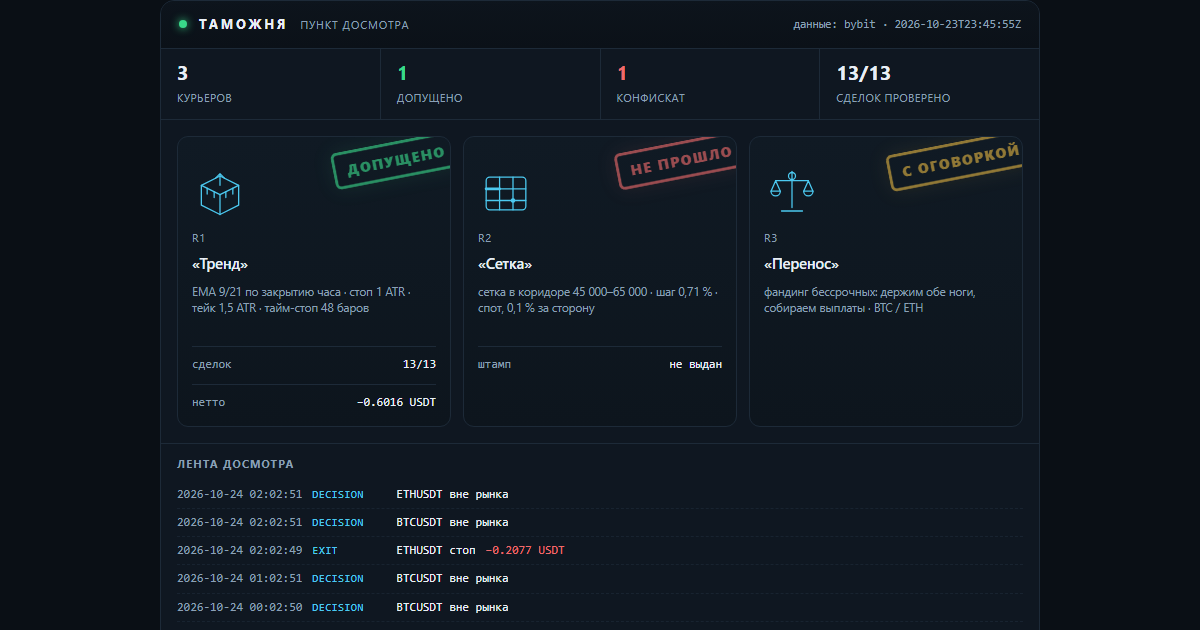
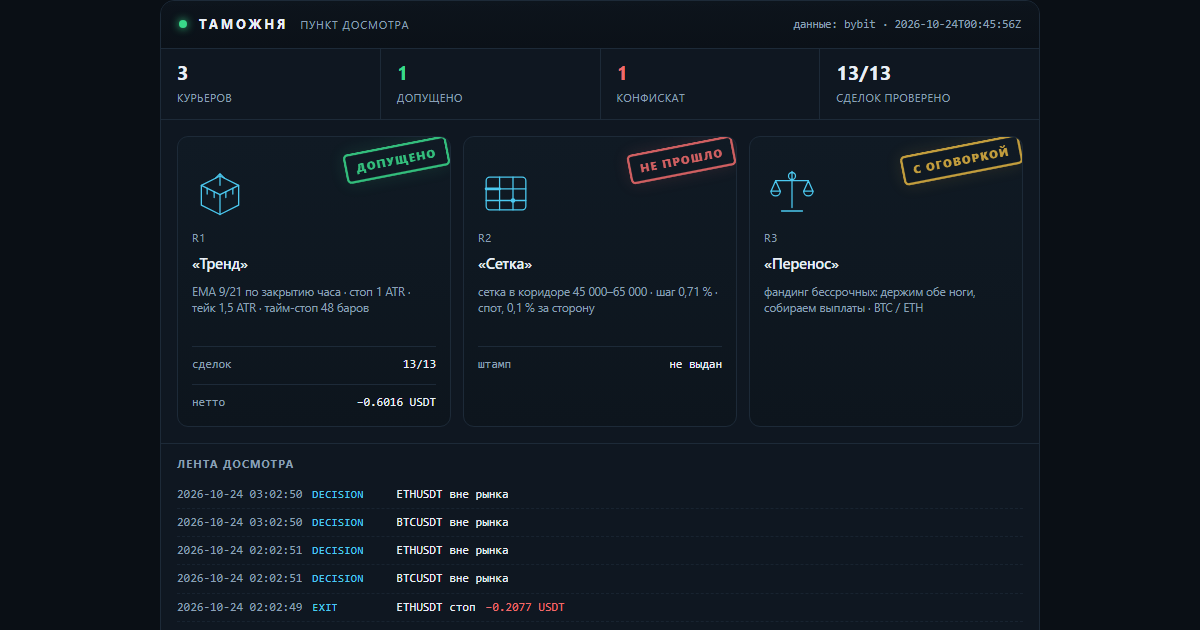
lab: таможня — свежие числа досмотра

diff --git a/docs/customs.html b/docs/customs.html
@@ -16,7 +16,7 @@
   <h1><a href="index.html">Gramwright Lab</a></h1>
   <p>Журнал проверки торговых гипотез: что проверяли, что вышло по факту, сколько съели издержки. Числа берутся из журнала стенда. Не инвестиционная рекомендация.</p>
 </header>
-<h1>Таможня</h1><p class="intro">Пункт досмотра заявленных результатов. Стратегии приезжают с грузом обещаний, и каждая проходит проверку по публичным данным биржи: цены существуют, комиссии по тарифу, нетто сходится. Что прошло — получает штамп. Что не прошло — в конфискат, с причиной. Штамп означает «записи подлинные», а не «стратегия прибыльна».</p><p><img src="img/customs.png" alt="Терминал досмотра: три курьера, штампы, лента событий" style="width:100%;height:auto;border:1px solid var(--line);border-radius:10px"></p><p class="c-note">Сверху — тот же терминал, что собирается из журналов: счётчики, эмблемы курьеров, штампы и лента последних событий. Ниже — то же самое текстом, чтобы читалось с телефона и индексировалось поиском.</p><article><h2>R1 «Тренд» <span class="verdict">— <span class="c-ok">допущено</span></span></h2><p><strong>Правило:</strong> EMA 9/21 по закрытию часа · стоп 1 ATR · тейк 1,5 ATR · тайм-стоп 48 баров</p><p><strong>Декларация:</strong> Заявлено до прогона: держать 30 сделок, лимит нотионала 10 % от счёта, стоп дня −1 %. Прибыль не заявлялась — это важно: курьер не обещал доход.</p><p><strong>Проверено по публичным свечам, без ключей:</strong> 13 из 13 сделок. Сумма нетто −0.6016 USDT.</p><ul class="c-chk"><li class="y">BTCUSDT: нетто −0.8746 USDT · комиссии 0.0901 · проверено · с поправкой</li><li class="y">BTCUSDT: нетто −0.5441 USDT · комиссии 0.0896 · проверено</li><li class="y">ETHUSDT: нетто −0.2253 USDT · комиссии 0.0266 · проверено</li><li class="y">ETHUSDT: нетто −0.1513 USDT · комиссии 0.0265 · проверено</li><li class="y">ETHUSDT: нетто +0.1984 USDT · комиссии 0.0262 · проверено</li><li class="y">ETHUSDT: нетто +0.1617 USDT · комиссии 0.0260 · проверено</li><li class="y">ETHUSDT: нетто +0.2645 USDT · комиссии 0.0263 · проверено</li><li class="y">BTCUSDT: нетто +0.6246 USDT · комиссии 0.0897 · проверено</li><li class="y">BTCUSDT: нетто −0.5881 USDT · комиссии 0.0910 · проверено</li><li class="y">ETHUSDT: нетто −0.2403 USDT · комиссии 0.0270 · проверено</li><li class="y">BTCUSDT: нетто +0.6908 USDT · комиссии 0.0908 · проверено</li><li class="y">ETHUSDT: нетто +0.2898 USDT · комиссии 0.0267 · проверено</li><li class="y">ETHUSDT: нетто −0.2077 USDT · комиссии 0.0263 · проверено</li></ul><p class="tags">журнал sha256 22f508ebebd718b0… · проверяльщик verify-1</p><p class="c-note">Штамп означает: записи подлинные, а не что стратегия прибыльна. Курьер в минусе, и минус тоже стоит на штампе — иначе это была бы не проверка, а реклама.</p><p class="tags">источник: verify-report.json</p></article><article><h2>R2 «Сетка» <span class="verdict">— <span class="c-bad">не прошло</span></span></h2><p><strong>Правило:</strong> сетка в коридоре 45 000–65 000 · шаг 0,71 % · спот, 0,1 % за сторону</p><p><strong>Декларация:</strong> Заявлено: «44 % урожая уходит бирже в виде комиссий». Кроме того — перевес над простым владением монетой.</p><p><strong>Что сошлось:</strong></p><ul class="c-chk"><li class="y">сами числа пересчитаны и воспроизводятся: коридор 45–65k был активен 23 % всей истории и 28 % последних двух лет</li></ul><p><strong>Что не сошлось:</strong></p><ul class="c-chk"><li class="n">44 % не подтвердилось: при шаге 0,71 % и тарифе 0,1 % комиссия съедает 28,3 % шага. Чтобы получить 44 %, нужен шаг 0,45 % — это около 80 уровней, а не 50</li><li class="n">от урожая доля комиссий 85,5 % за всю историю и 49,6 % за последние два года — тоже не 44 %</li><li class="n">перевес над владением посчитан на тарифе 0,055 %: при нём +1,32 п. п., на розничном 0,1 % — −0,72 п. п. То есть перевес исчезает</li><li class="n">семилетний тест стартовал в сентябре 2019 при биткоине около 10 000 — ниже коридора. Он говорит, что фиксированный коридор не подходит для периода, а не что сетка отстаёт</li></ul><p class="tags">источник: lab_grid.py, пересчёт 17.10.2026</p></article><article><h2>R3 «Перенос» <span class="verdict">— <span class="c-warn">с оговоркой</span></span></h2><p><strong>Правило:</strong> фандинг бессрочных: держим обе ноги, собираем выплаты · BTC / ETH</p><p><strong>Декларация:</strong> Заявлено: около 11,9 % в год от выплат фандинга при просадке выплатной кривой меньше 2 %.</p><p><strong>Что сошлось:</strong></p><ul class="c-chk"><li class="y">выплаты взяты из публичной истории биржи, ключей не нужно: BTC — 7 190 выплат с 25.03.2020, ETH — 6 561 с 21.10.2020</li><li class="y">сумма сходится: +83,4 % и +83,2 % за 6,6 и 6,0 года — те самые ~11,9 % в год</li><li class="y">худшая просадка выплатной кривой: −1,65 % и −1,97 %</li></ul><p><strong>Что не сошлось:</strong></p><ul class="c-chk"><li class="n">оговорка 1: премию сжали — 2021 год дал +38,3 %, 2026 — +1,96 %. Прошлое не повторяется</li><li class="n">оговорка 2: вход-выход стоит около 0,31 %, капитала нужно 1,2 от нотионала, текущий базис −0,082 % против входа</li><li class="n">оговорка 3: риск площадки. История FTX в этой же таблице выглядела так же прилично</li></ul><p class="tags">источник: публичная история фандинга Bybit, замер 17.10.2026</p></article><div class="c-conf"><h3>Конфискат</h3><p><strong>«Сетка»: заявленные 44 % комиссий не подтвердились.</strong> Досмотр показал 28,3 % от шага и 85,5 % от урожая — цифра хуже заявленной по форме, но лучше по смыслу: сетку убивает не размер шага, а то, что урожай почти весь уходит в комиссии. Это и вышло в выпуск — с поправкой, а не с красивой цифрой.</p></div><p class="c-note">Пломба: <code>2026-10-23T23:45:55Z</code> · нотариус FreeTSA · Oct 23 23:45:55 2026 GMT · подпись подтверждена. Манифест скрепляет отчёт проверки, журнал сделок и декларации курьеров: подменишь любую цифру — пломба перестанет сходиться.</p><p class="c-note">Досмотр идёт по публичным минутным свечам и публичной истории фандинга — ключей у проверяющего нет, и он может повторить проверку сам.</p><p class="c-note">Контент образовательный, не является инвестиционной рекомендацией. Торговля связана с риском потери капитала.</p>
+<h1>Таможня</h1><p class="intro">Пункт досмотра заявленных результатов. Стратегии приезжают с грузом обещаний, и каждая проходит проверку по публичным данным биржи: цены существуют, комиссии по тарифу, нетто сходится. Что прошло — получает штамп. Что не прошло — в конфискат, с причиной. Штамп означает «записи подлинные», а не «стратегия прибыльна».</p><p><img src="img/customs.png" alt="Терминал досмотра: три курьера, штампы, лента событий" style="width:100%;height:auto;border:1px solid var(--line);border-radius:10px"></p><p class="c-note">Сверху — тот же терминал, что собирается из журналов: счётчики, эмблемы курьеров, штампы и лента последних событий. Ниже — то же самое текстом, чтобы читалось с телефона и индексировалось поиском.</p><article><h2>R1 «Тренд» <span class="verdict">— <span class="c-ok">допущено</span></span></h2><p><strong>Правило:</strong> EMA 9/21 по закрытию часа · стоп 1 ATR · тейк 1,5 ATR · тайм-стоп 48 баров</p><p><strong>Декларация:</strong> Заявлено до прогона: держать 30 сделок, лимит нотионала 10 % от счёта, стоп дня −1 %. Прибыль не заявлялась — это важно: курьер не обещал доход.</p><p><strong>Проверено по публичным свечам, без ключей:</strong> 13 из 13 сделок. Сумма нетто −0.6016 USDT.</p><ul class="c-chk"><li class="y">BTCUSDT: нетто −0.8746 USDT · комиссии 0.0901 · проверено · с поправкой</li><li class="y">BTCUSDT: нетто −0.5441 USDT · комиссии 0.0896 · проверено</li><li class="y">ETHUSDT: нетто −0.2253 USDT · комиссии 0.0266 · проверено</li><li class="y">ETHUSDT: нетто −0.1513 USDT · комиссии 0.0265 · проверено</li><li class="y">ETHUSDT: нетто +0.1984 USDT · комиссии 0.0262 · проверено</li><li class="y">ETHUSDT: нетто +0.1617 USDT · комиссии 0.0260 · проверено</li><li class="y">ETHUSDT: нетто +0.2645 USDT · комиссии 0.0263 · проверено</li><li class="y">BTCUSDT: нетто +0.6246 USDT · комиссии 0.0897 · проверено</li><li class="y">BTCUSDT: нетто −0.5881 USDT · комиссии 0.0910 · проверено</li><li class="y">ETHUSDT: нетто −0.2403 USDT · комиссии 0.0270 · проверено</li><li class="y">BTCUSDT: нетто +0.6908 USDT · комиссии 0.0908 · проверено</li><li class="y">ETHUSDT: нетто +0.2898 USDT · комиссии 0.0267 · проверено</li><li class="y">ETHUSDT: нетто −0.2077 USDT · комиссии 0.0263 · проверено</li></ul><p class="tags">журнал sha256 115e2b96c42cbbaf… · проверяльщик verify-1</p><p class="c-note">Штамп означает: записи подлинные, а не что стратегия прибыльна. Курьер в минусе, и минус тоже стоит на штампе — иначе это была бы не проверка, а реклама.</p><p class="tags">источник: verify-report.json</p></article><article><h2>R2 «Сетка» <span class="verdict">— <span class="c-bad">не прошло</span></span></h2><p><strong>Правило:</strong> сетка в коридоре 45 000–65 000 · шаг 0,71 % · спот, 0,1 % за сторону</p><p><strong>Декларация:</strong> Заявлено: «44 % урожая уходит бирже в виде комиссий». Кроме того — перевес над простым владением монетой.</p><p><strong>Что сошлось:</strong></p><ul class="c-chk"><li class="y">сами числа пересчитаны и воспроизводятся: коридор 45–65k был активен 23 % всей истории и 28 % последних двух лет</li></ul><p><strong>Что не сошлось:</strong></p><ul class="c-chk"><li class="n">44 % не подтвердилось: при шаге 0,71 % и тарифе 0,1 % комиссия съедает 28,3 % шага. Чтобы получить 44 %, нужен шаг 0,45 % — это около 80 уровней, а не 50</li><li class="n">от урожая доля комиссий 85,5 % за всю историю и 49,6 % за последние два года — тоже не 44 %</li><li class="n">перевес над владением посчитан на тарифе 0,055 %: при нём +1,32 п. п., на розничном 0,1 % — −0,72 п. п. То есть перевес исчезает</li><li class="n">семилетний тест стартовал в сентябре 2019 при биткоине около 10 000 — ниже коридора. Он говорит, что фиксированный коридор не подходит для периода, а не что сетка отстаёт</li></ul><p class="tags">источник: lab_grid.py, пересчёт 17.10.2026</p></article><article><h2>R3 «Перенос» <span class="verdict">— <span class="c-warn">с оговоркой</span></span></h2><p><strong>Правило:</strong> фандинг бессрочных: держим обе ноги, собираем выплаты · BTC / ETH</p><p><strong>Декларация:</strong> Заявлено: около 11,9 % в год от выплат фандинга при просадке выплатной кривой меньше 2 %.</p><p><strong>Что сошлось:</strong></p><ul class="c-chk"><li class="y">выплаты взяты из публичной истории биржи, ключей не нужно: BTC — 7 190 выплат с 25.03.2020, ETH — 6 561 с 21.10.2020</li><li class="y">сумма сходится: +83,4 % и +83,2 % за 6,6 и 6,0 года — те самые ~11,9 % в год</li><li class="y">худшая просадка выплатной кривой: −1,65 % и −1,97 %</li></ul><p><strong>Что не сошлось:</strong></p><ul class="c-chk"><li class="n">оговорка 1: премию сжали — 2021 год дал +38,3 %, 2026 — +1,96 %. Прошлое не повторяется</li><li class="n">оговорка 2: вход-выход стоит около 0,31 %, капитала нужно 1,2 от нотионала, текущий базис −0,082 % против входа</li><li class="n">оговорка 3: риск площадки. История FTX в этой же таблице выглядела так же прилично</li></ul><p class="tags">источник: публичная история фандинга Bybit, замер 17.10.2026</p></article><div class="c-conf"><h3>Конфискат</h3><p><strong>«Сетка»: заявленные 44 % комиссий не подтвердились.</strong> Досмотр показал 28,3 % от шага и 85,5 % от урожая — цифра хуже заявленной по форме, но лучше по смыслу: сетку убивает не размер шага, а то, что урожай почти весь уходит в комиссии. Это и вышло в выпуск — с поправкой, а не с красивой цифрой.</p></div><p class="c-note">Пломба: <code>2026-10-24T00:45:56Z</code> · нотариус FreeTSA · Oct 24 00:45:56 2026 GMT · подпись подтверждена. Манифест скрепляет отчёт проверки, журнал сделок и декларации курьеров: подменишь любую цифру — пломба перестанет сходиться.</p><p class="c-note">Досмотр идёт по публичным минутным свечам и публичной истории фандинга — ключей у проверяющего нет, и он может повторить проверку сам.</p><p class="c-note">Контент образовательный, не является инвестиционной рекомендацией. Торговля связана с риском потери капитала.</p>
 <footer class="site">
   Код стенда и аудитора: <a href="https://github.com/XSlaidx/truth-engine">XSlaidx/truth-engine</a>
   &middot; <a href="graveyard.html">кладбище правил</a>
